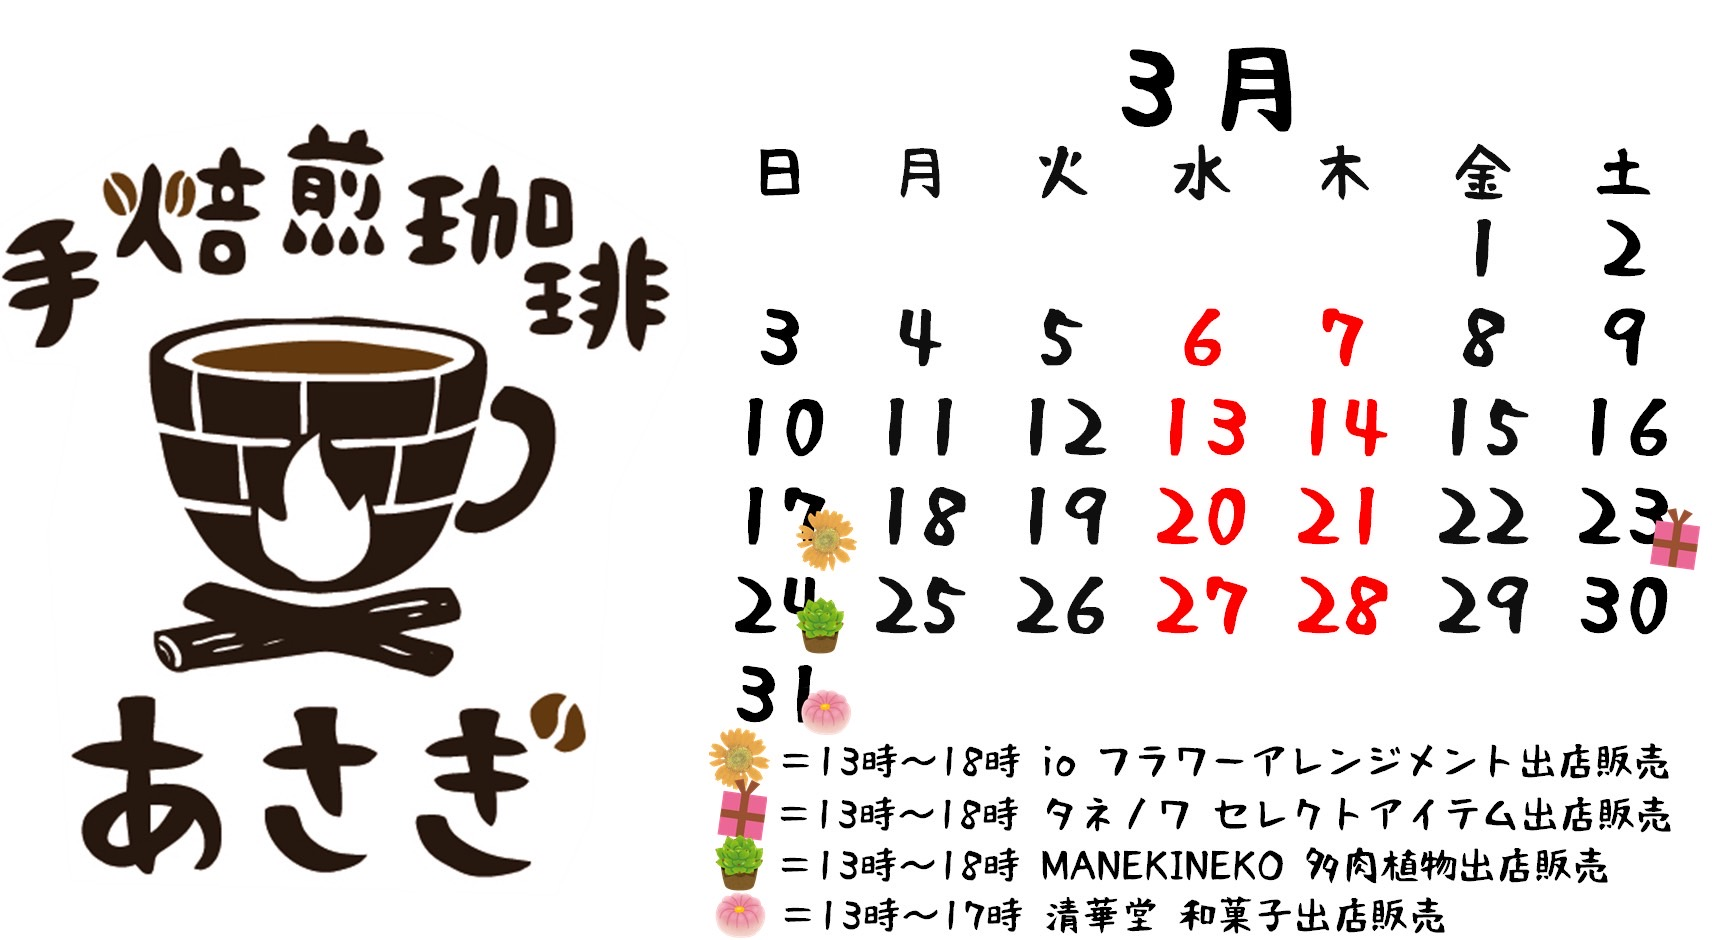
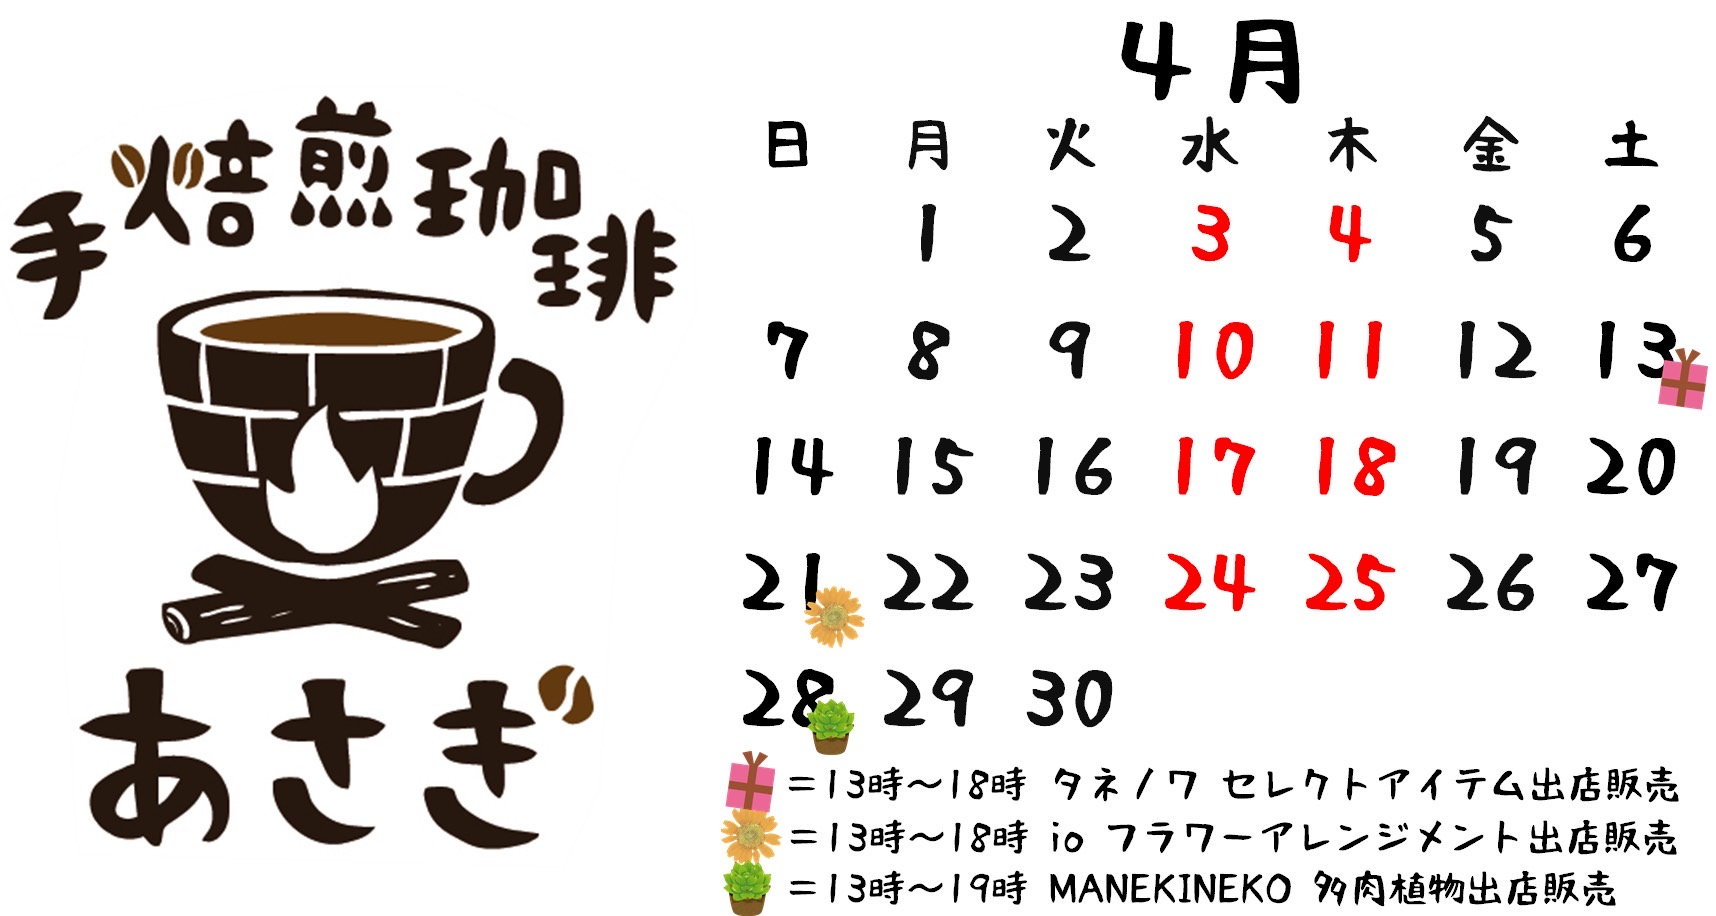
4月の変更 カレンダーの更新 季節の豆追加

diff --git a/bean.html b/bean.html
@@ -105,6 +105,13 @@
                 </a>
             </div>
         </div>
+        <div class="event">
+            <div class="eventbox">
+                <a href="img/seasonal2.jpg" data-lightbox="group">
+                    <img src="img/seasonal2.jpg" width="100%">
+                </a>
+            </div>
+        </div>
 
         <div id="colum">
             <ul>
